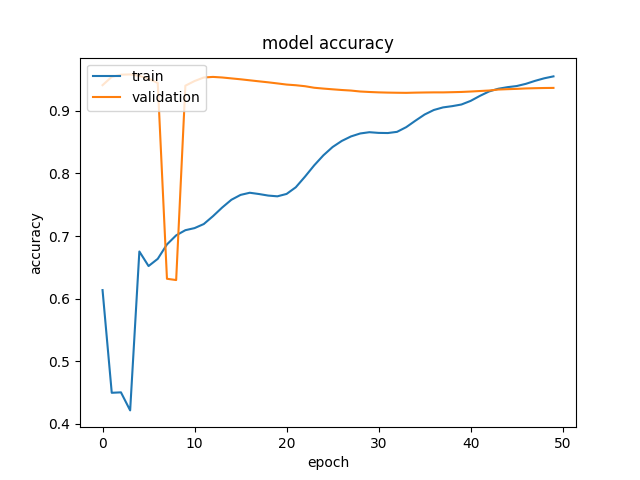
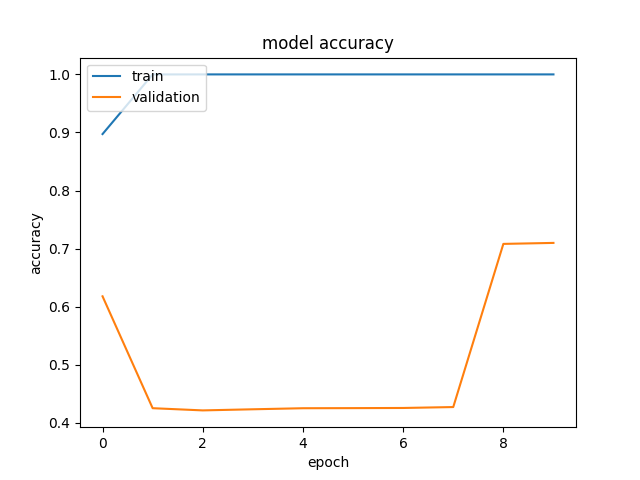
Generator for larger datasets

diff --git a/wildfire.py b/wildfire.py
@@ -3,6 +3,7 @@ import tensorflow as tf
 import tensorflow.keras
 from tensorflow.keras import layers, models, losses, optimizers
 from tensorflow.keras.regularizers import l2
+from generator import WildfireSequence
 import numpy as np
 import xarray as xr
 import matplotlib.pyplot as plt
@@ -10,6 +11,7 @@ from sklearn.preprocessing import StandardScaler
 from sklearn.metrics import confusion_matrix, ConfusionMatrixDisplay
 import warnings
 print(tf.config.list_physical_devices('GPU'))
+
 
 print("If its the first time running this script, select n for the following question")
 x=input("Use Loaded Dataset? [Y]/n: ")
@@ -30,20 +32,21 @@ if x == "n":
                     "POP_DENS_2021", "ROAD_DISTANCE", "avg_d2m", "avg_sp", "fapar", "max_sp",
                     "max_rh", "max_sp", "max_t2m", "max_tp","max_u10", "max_v10", 
                     "max_wind_u10", "max_wind_v10", "min_d2m", "min_rh", "min_sp", "min_t2m",
-                    "min_tp", "min_u10", "min_v10", ""]
+                    "min_tp", "min_u10", "min_v10"]
     X_label = [label for label in feature_list if label not in remove_label]
     y_label = "burned_areas"
     Xy_label = X_label
     Xy_label.append(y_label)
 
-    # take the first 5 time steps for all x and y to try creating a smaller dataset
-    start_timestep = 90
-    num_samples = 20
+    # Initialize paramters
+    start_timestep = 0
+    num_samples = 500
     timesteps_per_sample = 1
     width_limit = 100
     height_limit = 100
     timestep_samples = num_samples*timesteps_per_sample
     train_size = 0.8
+    oversampling_factor = 5
 
     # DATA PROCESSING
     # 1) Train Test Split
@@ -51,11 +54,11 @@ if x == "n":
     # 3) For the train set, weight/multiply the fire dataset and combine it with the non fire dataset (Class weighting)
     # 4) Leave the test set as is (No need for class weighting because only used for testing)
 
-    # partial dataset (limit x and y coords)
+    # partial width/height dataset (limit x and y coords)
     # train_dataset = wildfire_dataset.isel(time=slice(start_timestep, start_timestep+timestep_samples), x=slice(None,width_limit), y=slice(None,height_limit))
     # train_dataset = train_dataset[Xy_label]
 
-    # full dataset
+    # full width/height dataset
     train_dataset = wildfire_dataset.isel(time=slice(start_timestep, start_timestep+timestep_samples))
     train_dataset = train_dataset[Xy_label]
 
@@ -110,33 +113,40 @@ if x == "n":
     # print(nonfire_train)
     # print(nonfire_train.shape)
 
-
-    if fire_train.shape[0] == 0:
+    num_wildfire_samples = fire_train.shape[0]
+    num_non_wildfire_samples = nonfire_train.shape[0]
+    if num_wildfire_samples == 0:
+            # throw error for not having fire datapoints to weight/multiply
         print("No wildfire data to use")
     else:
-        print("=======================Fire Samples===================: ", fire_train.shape[0])
-        # throw error for not having fire datapoints to weight/multiply
+        print("=======================Fire Samples===================: ", num_wildfire_samples)
 
-    # doubling wildfire data
-    ext_fire_train = np.repeat(fire_train, 2, axis=0)
+    print("=======================Non Fire Samples===================: ", num_non_wildfire_samples)
+
+    # oversampling wildfire data
+    ext_fire_train = np.repeat(fire_train, oversampling_factor, axis=0)
 
 
     # combine both wildfire and non wildfire train datasets
     train_dataset = np.concatenate((nonfire_train, ext_fire_train))
 
-    actual_train_size = train_dataset.shape[0]
     X_train = train_dataset[:,:,:,:-1]
     y_train = train_dataset[:,:,:,-1]
 
 
     # Handle Test
-    actual_test_size = math.floor(actual_train_size*(1-train_size)//train_size)
+    actual_train_size = train_dataset.shape[0]
+    total_train_test_size = int(actual_train_size/train_size)
+    actual_test_size = total_train_test_size-actual_train_size
+    print("actual_train_size: ", actual_train_size)
+    print("total_train_test_size: ", total_train_test_size)
+    print("actual_test_size: ", actual_test_size)
 
-    # full test set
+    # full width/height test dataset
     test_dataset = wildfire_dataset.isel(time=slice(start_timestep+timestep_samples, start_timestep+timestep_samples+actual_test_size))
     test_dataset = test_dataset[Xy_label]
 
-    # partial test set
+    # partial width/height test dataset
     # test_dataset = wildfire_dataset.isel(time=slice(start_timestep+timestep_samples, start_timestep+timestep_samples+actual_test_size), x=slice(None, width_limit), y=slice(None,height_limit))
     # test_dataset = test_dataset[Xy_label]
 
@@ -180,38 +190,26 @@ if x == "n":
             print("mean: ", X_train[:,:,:,:,i].mean())
             print("std: ", X_train[:,:,:,:,i].std())
 
-
-            # X_train_transformed = sc.fit_transform(X_train_2d)
-            # X_test_transformed = sc.transform(X_test_2d)
-            # Reshape to 4d (samples, time, x, y)
-            # X_train_transformed = X_train_transformed.reshape(X_train.shape[0], X_train.shape[1], X_train.shape[2], X_train.shape[3])
-            # X_test_transformed = X_test_transformed.reshape(X_test.shape[0], X_test.shape[1], X_test.shape[2], X_test.shape[3])
-            # Store normalized feature in X_train
-            # X_train[:,:,:,:,i] = X_train_transformed
-            # X_test[:,:,:,:,i] = X_test_transformed
         return X_train_norm, X_test_norm
-    # X_train = np.reshape(X_train, (actual_train_size//timesteps_per_sample, timesteps_per_sample, X_train.shape[1], X_train.shape[2], X_train.shape[3]))
-    # X_test = np.reshape(X_test, (actual_test_size//timesteps_per_sample, timesteps_per_sample, X_test.shape[1], X_test.shape[2], X_test.shape[3]))
-    # y_train = np.reshape(y_train, (actual_train_size//timesteps_per_sample, timesteps_per_sample, y_train.shape[1], y_train.shape[2]))
-    # y_test = np.reshape(y_test, (actual_test_size//timesteps_per_sample, timesteps_per_sample, y_test.shape[1], y_test.shape[2]))
-    X_train = np.reshape(X_train, (actual_train_size//timesteps_per_sample, timesteps_per_sample, X_train.shape[1], X_train.shape[2], X_train.shape[3]))
-    X_test = np.reshape(X_test, (actual_test_size//timesteps_per_sample, timesteps_per_sample, X_test.shape[1], X_test.shape[2], X_test.shape[3]))
-    y_train = np.reshape(y_train, (actual_train_size//timesteps_per_sample, timesteps_per_sample, y_train.shape[1], y_train.shape[2]))
-    y_test = np.reshape(y_test, (actual_test_size//timesteps_per_sample, timesteps_per_sample, y_test.shape[1], y_test.shape[2]))
+    
+    X_train = np.reshape(X_train, (actual_train_size, timesteps_per_sample, X_train.shape[1], X_train.shape[2], X_train.shape[3]))
+    X_test = np.reshape(X_test, (actual_test_size, timesteps_per_sample, X_test.shape[1], X_test.shape[2], X_test.shape[3]))
+    y_train = np.reshape(y_train, (actual_train_size, timesteps_per_sample, y_train.shape[1], y_train.shape[2]))
+    y_test = np.reshape(y_test, (actual_test_size, timesteps_per_sample, y_test.shape[1], y_test.shape[2]))
 
     X_train_norm, X_test_norm = normalize(X_train, X_test)
     
 
     # save numpy array in file
-    np.save("X_train_norm", X_train_norm)
-    np.save("X_test_norm", X_test_norm)
-    np.save("y_train", y_train)
-    np.save("y_test", y_test)
+    np.save("X_train_norm_500", X_train_norm)
+    np.save("X_test_norm_500", X_test_norm)
+    np.save("y_train_500", y_train)
+    np.save("y_test_500", y_test)
 else:
-    X_train_norm = np.load("X_train_norm.npy")
-    X_test_norm = np.load("X_test_norm.npy")
-    y_train = np.load("y_train.npy")
-    y_test = np.load("y_test.npy")
+    X_train_norm = np.load("X_train_norm_500.npy")
+    X_test_norm = np.load("X_test_norm_500.npy")
+    y_train = np.load("y_train_500.npy")
+    y_test = np.load("y_test_500.npy")
 print("X_train: ", X_train_norm.shape)
 print("X_test: ", X_test_norm.shape)
 print("y_train: ", y_train.shape)
@@ -228,20 +226,6 @@ if np.isnan(y_train).any():
 if np.isnan(y_test).any():
     print("y_test has nans")
 
-# # Construct a figure on which we will visualize the images.
-# fig, axes = plt.subplots(3,4, figsize=(10, 8))
-
-# # Plot each of the sequential images for one random data example.
-# for idx, ax in enumerate(axes.flat):
-#     ax.imshow(np.squeeze(y_train[idx][0]))
-#     ax.imshow(np.squeeze(y_train[idx][1]))
-#     ax.set_title(f"Frame {idx + 1}")
-#     ax.axis("off")
-
-# # Print information and display the figure.
-# # print(f"Displaying frames for example {data_choice}.")
-# plt.show()
-
     # convlstm.add(layers.ConvLSTM2D(filters=128, kernel_size=(5,5), padding="same", data_format="channels_last", activation="relu", return_sequences=True))
     # convlstm.add(layers.BatchNormalization())
     # convlstm.add(layers.ConvLSTM2D(filters=64, kernel_size=(3,3), padding="same", data_format="channels_last", activation="relu", return_sequences=True))
@@ -255,6 +239,8 @@ if np.isnan(y_test).any():
 def build_ConvLSTM():
     convlstm = models.Sequential()
     convlstm.add(layers.Input(shape=X_train_norm.shape[-4:]))
+    # convlstm.add(layers.ConvLSTM2D(filters=32, kernel_size=(5,5), padding="same", data_format="channels_last", activation="relu", return_sequences=True))
+    # convlstm.add(layers.BatchNormalization())
     convlstm.add(layers.ConvLSTM2D(filters=16, kernel_size=(3,3), padding="same", data_format="channels_last", activation="relu", return_sequences=True))
     convlstm.add(layers.BatchNormalization())
     convlstm.add(layers.ConvLSTM2D(filters=8, kernel_size=(2,2), padding="same", data_format="channels_last", activation="relu", return_sequences=True))
@@ -267,10 +253,10 @@ def build_ConvLSTM():
 
 model = build_ConvLSTM()
 print(model.summary())
-epochs = 50
+epochs = 25
 batch_size = 1
-history = model.fit(X_train_norm, y_train, validation_data=(X_test_norm,y_test), epochs=epochs, verbose=True)
-# validation_data=(X_test_norm,y_test)
+# history = model.fit(X_train_norm, y_train, validation_data=(X_test_norm,y_test), epochs=epochs, batch_size=batch_size, verbose=True)
+history = model.fit(WildfireSequence(X_train_norm, y_train, 1), validation_data=(X_test_norm,y_test), epochs=epochs, batch_size=batch_size, verbose=True)
 
 # Evaluation Metrics
 

diff --git a/generator.py b/generator.py
@@ -1,0 +1,25 @@
+import numpy as np
+import tensorflow as tf
+import math
+
+class WildfireSequence(tf.keras.utils.Sequence):
+
+    def __init__(self, x_set, y_set, batch_size):
+        self.x, self.y = x_set, y_set
+        self.batch_size = batch_size
+
+    def __len__(self):
+        return math.ceil(len(self.x) / self.batch_size)
+
+    def __getitem__(self, idx):
+        # low = idx * self.batch_size
+        # # Cap upper bound at array length; the last batch may be smaller
+        # # if the total number of items is not a multiple of batch size.
+        # high = min(low + self.batch_size, len(self.x))
+        batch_x = self.x[idx,:,:,:,:]
+        batch_y = self.y[idx,:,:,:]
+        # print(batch_x.shape)
+        # print(batch_y.shape)
+
+        return np.reshape(batch_x, (self.batch_size, batch_x.shape[0], batch_x.shape[1], batch_x.shape[2], batch_x.shape[3])), np.reshape(batch_y, (self.batch_size, batch_y.shape[0], batch_y.shape[1], batch_y.shape[2]))
+        # np.reshape(batch_y, (batch_size, batch_y.shape[0], batch_y.shape[1], batch_y.shape[2], batch_y.shape[3]))
